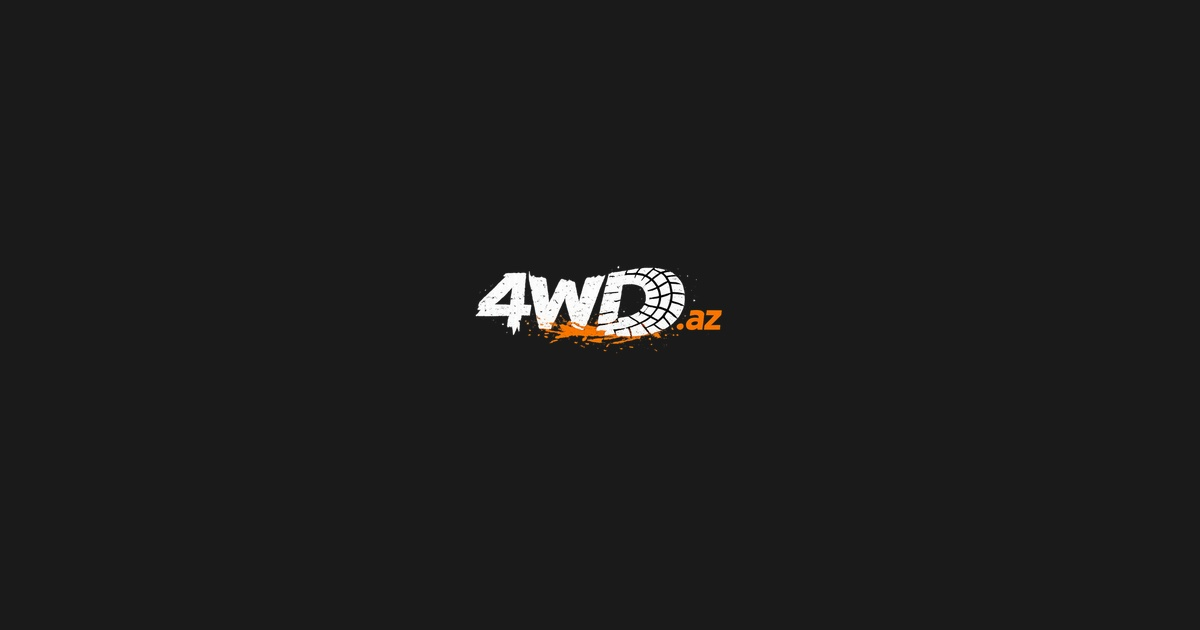
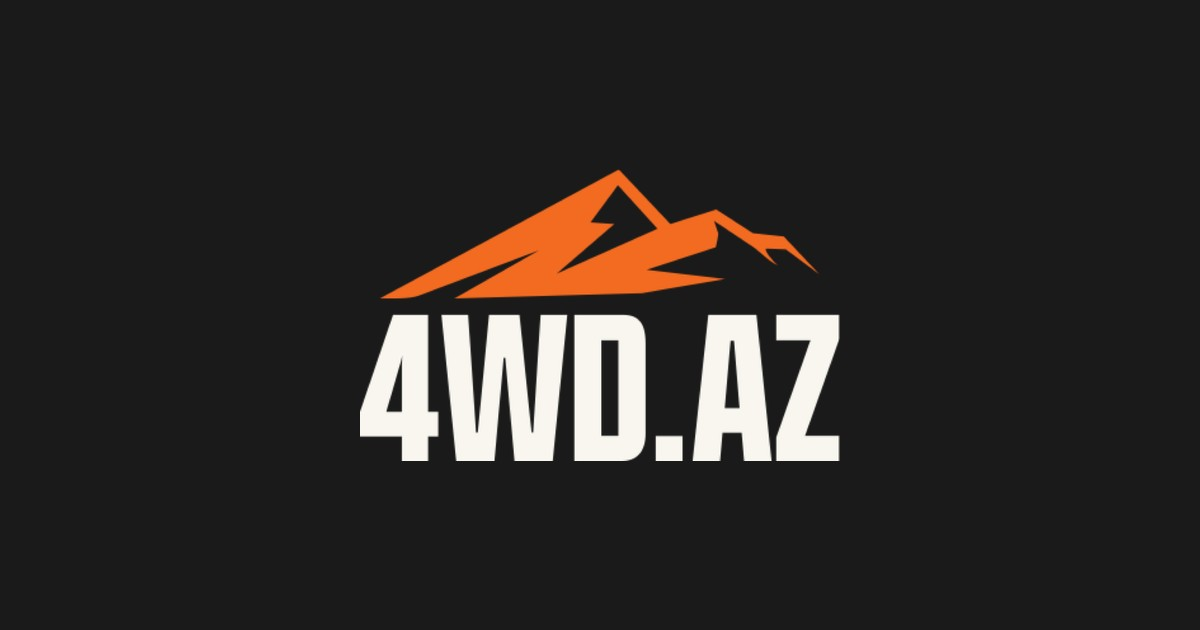
Add image sitemap for Google Images and fix OG image
- Add product images to sitemap.xml with image:image tags for
  Google Images indexing
- Improve product card alt tags with category name for better
  image SEO
- Replace OG image with correct logo (was using old tire logo)

Changed region(s): [[0.2775, 0.2714, 0.7092, 0.754]]

diff --git a/frontend/src/app/sitemap.ts b/frontend/src/app/sitemap.ts
@@ -1,10 +1,16 @@
 import type { MetadataRoute } from 'next';
-import { API_BASE_URL } from '@/lib/constants';
+import { API_BASE_URL, STORAGE_BASE_URL } from '@/lib/constants';
 
 const SITE_URL = 'https://4wd.az';
 
+function getImageUrl(path: string | null | undefined): string | null {
+  if (!path) return null;
+  if (path.startsWith('http://') || path.startsWith('https://')) return path;
+  return `${STORAGE_BASE_URL}${path.startsWith('/') ? '' : '/'}${path}`;
+}
+
 async function fetchAllProducts(): Promise<
-  Array<{ slug: string; updated_at: string; category?: { slug: string } }>
+  Array<{ slug: string; updated_at: string; title?: string; title_az?: string; primary_image?: string; images?: Array<{ image: string }>; category?: { slug: string } }>
 > {
   try {
     const res = await fetch(`${API_BASE_URL}/products/?per_page=1000`, {
@@ -99,12 +105,35 @@ export default async function sitemap(): Promise<MetadataRoute.Sitemap> {
 
   const productPages: MetadataRoute.Sitemap = products
     .filter((product) => product.category?.slug)
-    .map((product) => ({
-      url: `${SITE_URL}/categories/${product.category!.slug}/${product.slug}`,
-      lastModified: product.updated_at ? new Date(product.updated_at) : new Date(),
-      changeFrequency: 'weekly',
-      priority: 0.7,
-    }));
+    .map((product) => {
+      // Collect all product images for Google Images
+      const images: { url: string; title?: string }[] = [];
+      const title = product.title_az || product.title || '';
+
+      // Primary image
+      const primaryUrl = getImageUrl(product.primary_image);
+      if (primaryUrl) {
+        images.push({ url: primaryUrl, title });
+      }
+
+      // Gallery images
+      if (product.images) {
+        for (const img of product.images) {
+          const imgUrl = getImageUrl(img.image);
+          if (imgUrl && imgUrl !== primaryUrl) {
+            images.push({ url: imgUrl, title });
+          }
+        }
+      }
+
+      return {
+        url: `${SITE_URL}/categories/${product.category!.slug}/${product.slug}`,
+        lastModified: product.updated_at ? new Date(product.updated_at) : new Date(),
+        changeFrequency: 'weekly' as const,
+        priority: 0.7,
+        images: images.map((img) => img.url),
+      };
+    });
 
   const categoryPages: MetadataRoute.Sitemap = categories.map((category) => ({
     url: `${SITE_URL}/categories/${category.slug}`,

diff --git a/frontend/src/components/products/ProductCard.tsx b/frontend/src/components/products/ProductCard.tsx
@@ -45,7 +45,7 @@ export default function ProductCard({ product, t, locale }: ProductCardProps) {
             {imageUrl ? (
               <Image
                 src={imageUrl}
-                alt={title}
+                alt={`${title} - ${locale === 'az' ? product.category.name_az || product.category.name : product.category.name_en || product.category.name} | 4WD.az`}
                 fill
                 className="object-contain transition-transform duration-300 hover:scale-105"
                 sizes="(max-width: 640px) 50vw, (max-width: 1024px) 50vw, 33vw"
